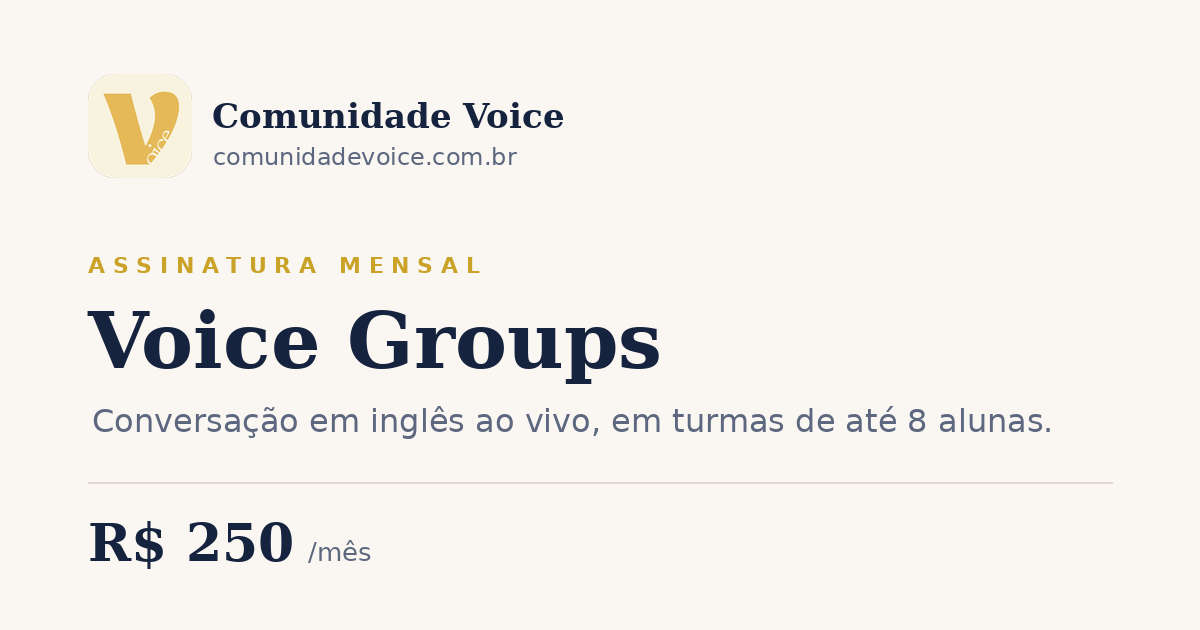
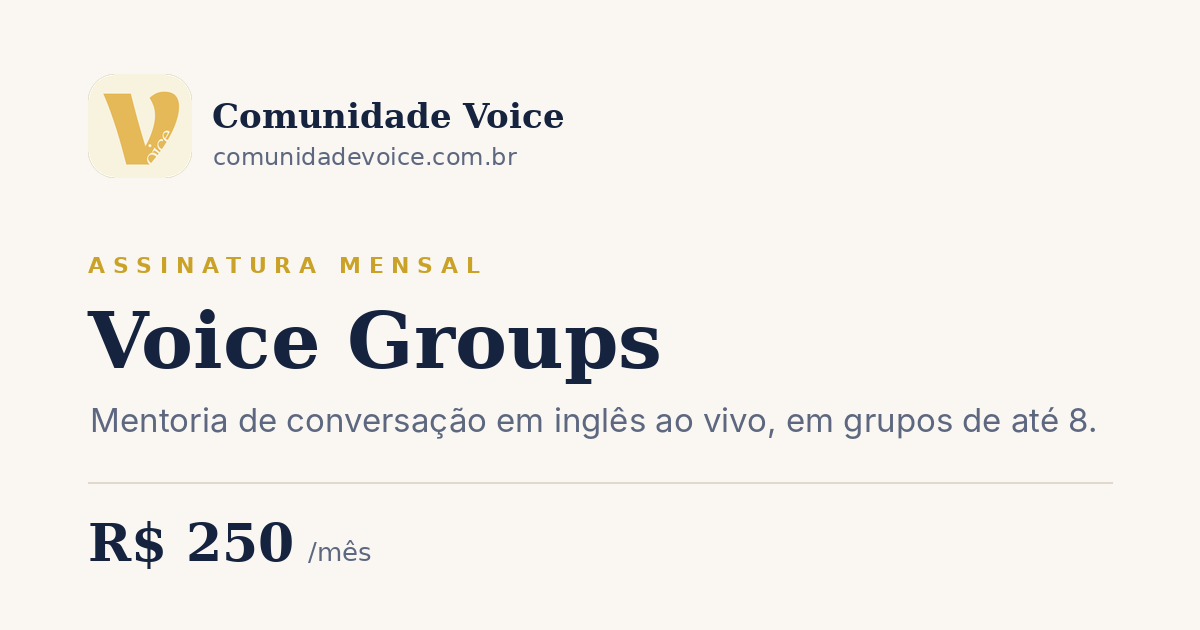
Add files via upload

Changed region(s): [[0.0617, 0.6333, 0.925, 0.6937]]

diff --git a/checkout/groups/index.html b/checkout/groups/index.html
@@ -3,7 +3,7 @@
 <head>
 <meta charset="utf-8">
 <meta name="viewport" content="width=device-width, initial-scale=1">
-<title>Assinatura Voice Groups — Comunidade Voice</title>
+<title>Assinatura Voice Groups · Comunidade Voice</title>
 <meta name="description" content="Assine o Voice Groups: mentoria de conversação em inglês ao vivo, em turmas de até 8 mentoradas.">
 <meta name="robots" content="noindex">
 <link rel="icon" href="/favicon-32.png" sizes="32x32">
@@ -11,7 +11,7 @@
 <meta property="og:type" content="website">
 <meta property="og:site_name" content="Comunidade Voice">
 <meta property="og:locale" content="pt_BR">
-<meta property="og:title" content="Assinatura Voice Groups — Comunidade Voice">
+<meta property="og:title" content="Assinatura Voice Groups · Comunidade Voice">
 <meta property="og:description" content="Assine o Voice Groups: mentoria de conversação em inglês ao vivo, em turmas de até 8 mentoradas.">
 <meta property="og:url" content="https://lp.comunidadevoice.com.br/checkout/groups/">
 <meta property="og:image" content="https://lp.comunidadevoice.com.br/checkout/groups/og-image.png">
@@ -19,9 +19,9 @@
 <meta property="og:image:type" content="image/png">
 <meta property="og:image:width" content="1200">
 <meta property="og:image:height" content="630">
-<meta property="og:image:alt" content="Voice Groups — assinatura mensal de R$ 250">
+<meta property="og:image:alt" content="Voice Groups, assinatura mensal de R$ 250">
 <meta name="twitter:card" content="summary_large_image">
-<meta name="twitter:title" content="Assinatura Voice Groups — Comunidade Voice">
+<meta name="twitter:title" content="Assinatura Voice Groups · Comunidade Voice">
 <meta name="twitter:description" content="Assine o Voice Groups: mentoria de conversação em inglês ao vivo, em turmas de até 8 mentoradas.">
 <meta name="twitter:image" content="https://lp.comunidadevoice.com.br/checkout/groups/og-image.png">
 <link rel="preconnect" href="https://fonts.googleapis.com">
@@ -304,7 +304,7 @@ src="https://www.facebook.com/tr?id=1268398628617400&ev=PageView&noscript=1"></n
 
   <footer>
     Comunidade Voice · CNPJ 67.185.890/0001-24<br>
-    Rua João Bernadino da Rosa, 2173 — Pedra Branca, Palhoça/SC — CEP 88137-010<br>
+    Rua João Bernadino da Rosa, 2173, Pedra Branca, Palhoça/SC, CEP 88137-010<br>
     <a href="mailto:contato@comunidadevoice.com.br">contato@comunidadevoice.com.br</a>
   </footer>
 </div>
